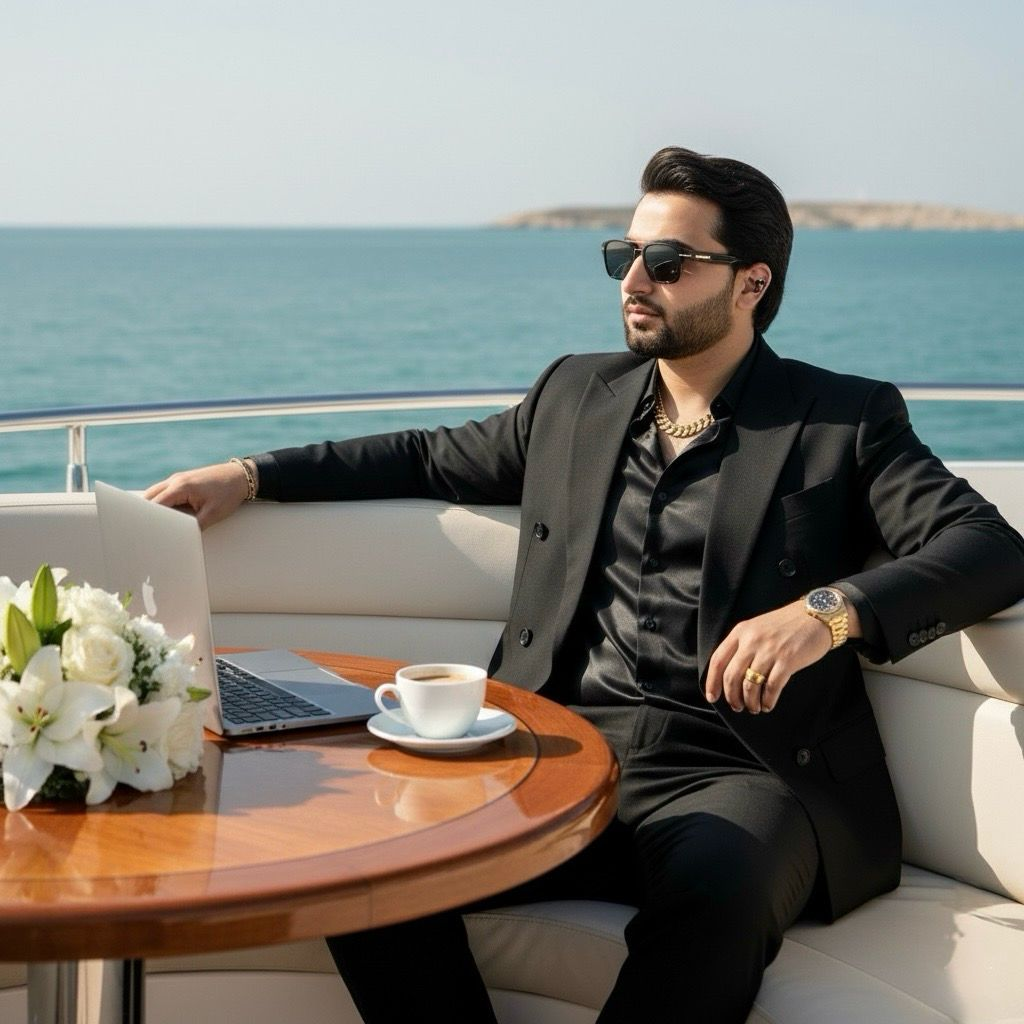
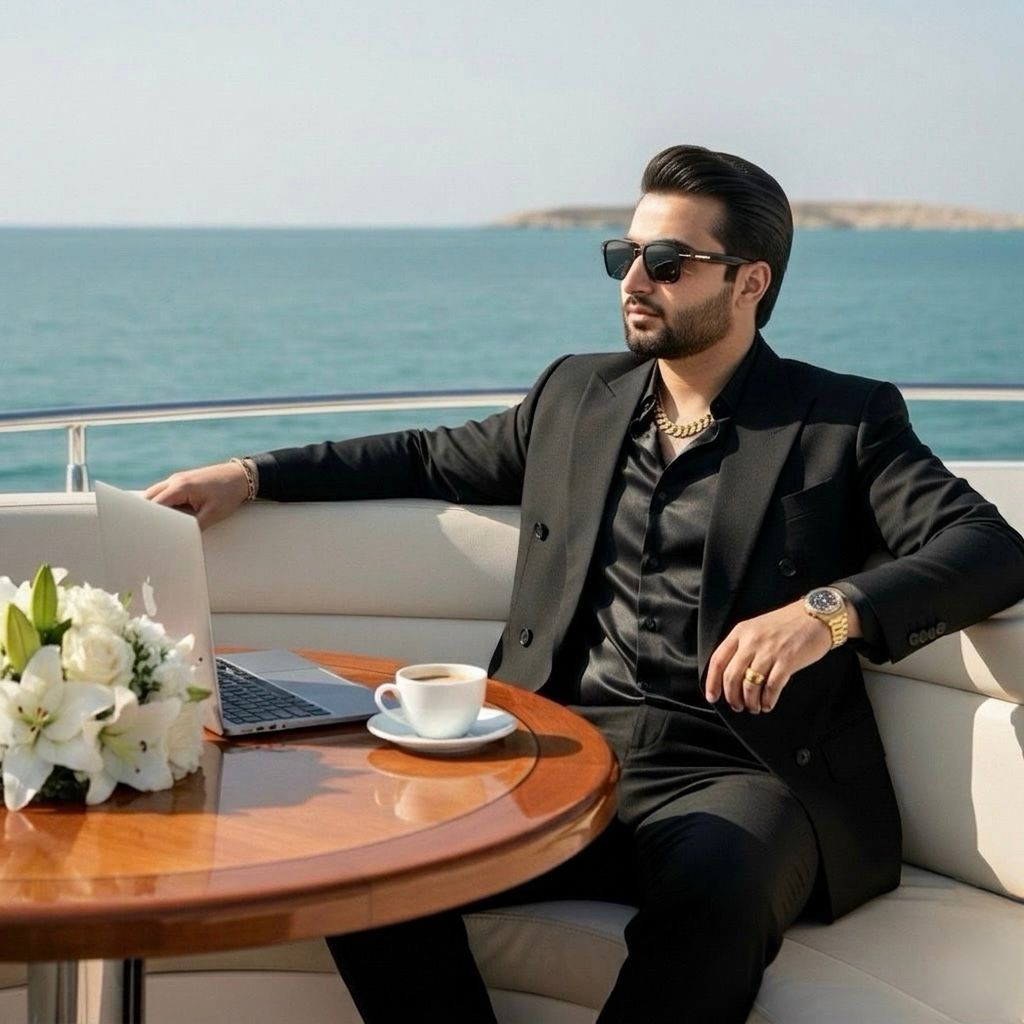
Fix hero background crop and use updated profile image

diff --git a/components/sections/HeroSection.tsx b/components/sections/HeroSection.tsx
@@ -18,7 +18,7 @@ export default function HeroSection() {
         src="/profile.png"
         alt=""
         aria-hidden="true"
-        className="absolute inset-0 w-full h-full object-cover object-[69%_46%] brightness-90"
+        className="absolute inset-0 w-full h-full object-cover object-[72%_18%] brightness-90"
       />
 
       {/* ── Gradient overlay for readability ── */}
